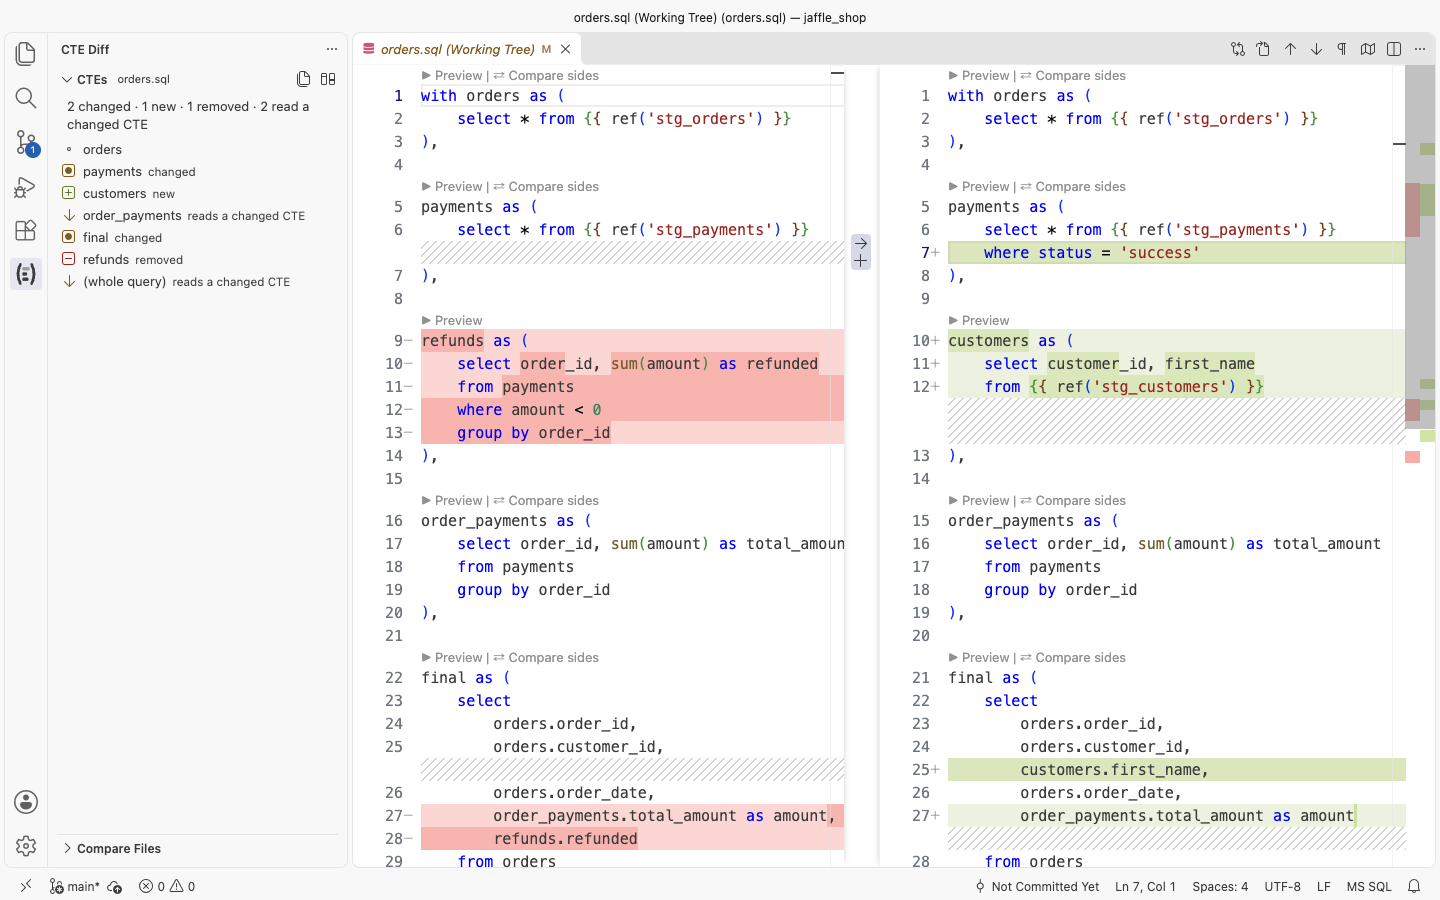
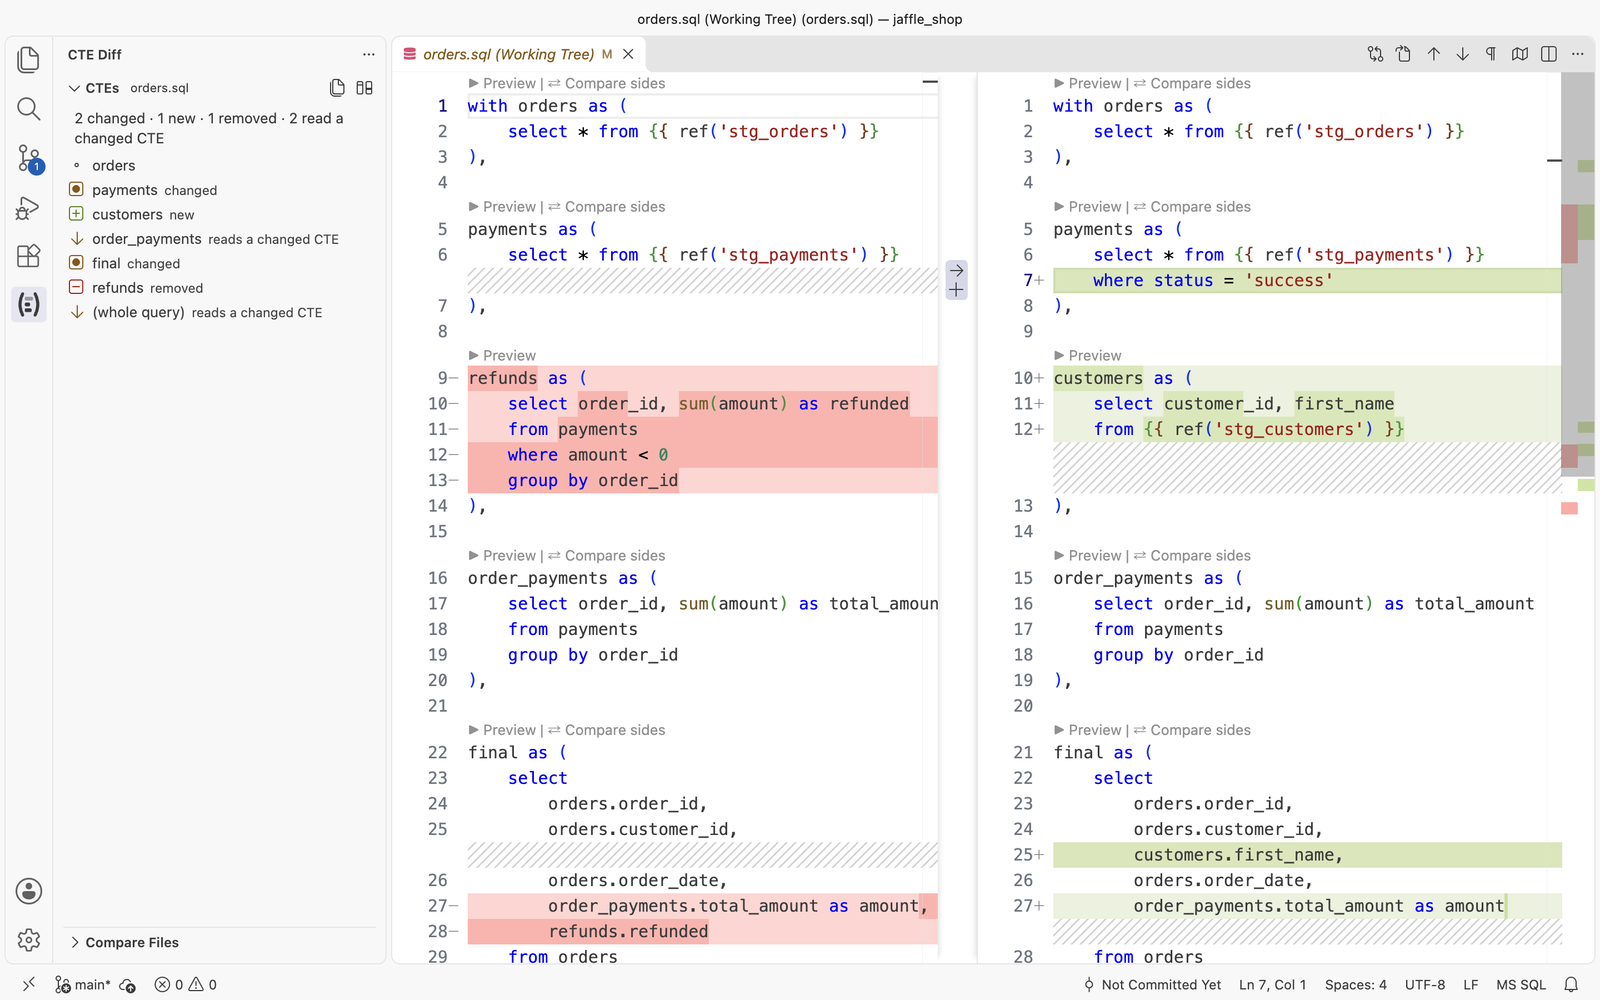
Capture: stills at 2x, cropped from the button clicked to the end of the results

diff --git a/scripts/capture.ts b/scripts/capture.ts
@@ -143,7 +143,10 @@ async function launch(): Promise<{ page: Page; close: () => Promise<void> }> {
   const browser = await chromium.connectOverCDP(url);
   const page = await until(() => browser.contexts().flatMap((c) => c.pages()).find((p) => p.url().includes("workbench")), "the workbench");
   await page.locator(".part.activitybar").waitFor({ timeout: 60000 });
-  await page.setViewportSize(VIEW); // Electron has no Browser.setWindowBounds: emulate the size instead
+  // Electron has no Browser.setWindowBounds: emulate the size instead, at 2x (page.setViewportSize would make it 1x).
+  // The override lasts as long as this session, which stays open until close().
+  const cdp = await page.context().newCDPSession(page);
+  await cdp.send("Emulation.setDeviceMetricsOverride", { ...VIEW, deviceScaleFactor: 2, mobile: false });
   await page.evaluate(INJECT);
   await sleep(3000); // git scans the repo; the extension activates
   return {
@@ -302,7 +305,10 @@ async function still(page: Page, rec: Recorder | undefined, name: string, clip?:
   const cursor = (v: string) => page.evaluate(`document.querySelector(".qv-cursor").style.visibility = "${v}"`);
   await cursor("hidden");
   const raw = path.join(OUT, `${name}.png`);
-  await page.screenshot({ path: raw, clip });
+  const cdp = await page.context().newCDPSession(page); // page.screenshot would capture at 1x
+  const { data } = await cdp.send("Page.captureScreenshot", { format: "png", ...(clip && { clip: { ...clip, scale: 1 } }) });
+  fs.writeFileSync(raw, Buffer.from(data, "base64"));
+  await cdp.detach();
   await cursor("visible");
   if (rec) rec.paused = false;
   fs.mkdirSync(IMG, { recursive: true });
@@ -314,10 +320,30 @@ const activity = (page: Page, name: string) => page.locator(`.part.activitybar a
 const pane = (page: Page, title: string) => page.locator(".pane", { has: page.locator(".pane-header", { hasText: title }) });
 const box = async (el: Locator) => (await el.boundingBox())!;
 
-/** The editor and the panel below it: a run's buttons and its results. */
-async function workArea(page: Page) {
-  const [e, p] = [await box(page.locator(".part.editor")), await box(page.locator(".part.panel"))];
-  return { x: e.x, y: e.y, width: e.width, height: p.y + p.height - e.y };
+/** Across the editor, from `top` (the lens clicked, or the panel) down to the end of the results' table, or to the
+ * last whole row the panel shows. */
+async function results(page: Page, top: Locator, pad = 8) {
+  const [e, p, t] = [await box(page.locator(".part.editor")), await box(page.locator(".part.panel")), await box(top)];
+  // The table is in the results webview, an iframe in an iframe: ask each frame.
+  const [frame, scroll] = await until(async () => {
+    for (const f of page.frames()) {
+      const b = await f.locator(".scroll").first().boundingBox({ timeout: 300 }).catch(() => null);
+      if (b) return [f, b] as const;
+    }
+  }, "the results' table");
+  // The table scrolls inside its frame: past the frame's end, cut below the last whole row.
+  const table = await box(frame.locator("table").first());
+  const visible = Math.min(scroll.y + scroll.height, p.y + p.height);
+  let bottom = table.y + table.height + 14;
+  if (table.y + table.height > visible) {
+    bottom = t.y;
+    for (const row of await frame.locator("tr").all()) {
+      const b = await row.boundingBox();
+      if (b && b.y + b.height <= visible) bottom = Math.max(bottom, b.y + b.height + 1);
+    }
+  }
+  const y = t.y - pad;
+  return { x: e.x, y, width: e.width, height: bottom - y };
 }
 
 /** The activity bar and the sidebar, from the sidebar's top down to `last`. */
@@ -370,21 +396,23 @@ async function flow(page: Page): Promise<void> {
   // Preview payments: its new where clause drops rows.
   await scrollTo(page, hand, "payments as (");
   await sleep(400);
-  await hand.click(await lens(page, "payments as (", "▶ Preview"));
+  const preview = await lens(page, "payments as (", "▶ Preview");
+  await hand.click(preview);
   rec.mark("preview");
   await result(page, "payments (orders.sql)");
   rec.mark("preview-rows");
   await sleep(2500);
-  await still(page, rec, "preview", await workArea(page));
+  await still(page, rec, "preview", await results(page, preview));
   // Compare order_payments: its SQL didn't change, but it reads payments, so its rows did.
   await scrollTo(page, hand, "order_payments as (");
   await sleep(400);
-  await hand.click(await lens(page, "order_payments as (", "⇄ Compare sides"));
+  const compare = await lens(page, "order_payments as (", "⇄ Compare sides");
+  await hand.click(compare);
   rec.mark("compare");
   await result(page, "order_payments");
   rec.mark("compare-rows");
   await sleep(3000);
-  await still(page, rec, "compare", await workArea(page));
+  await still(page, rec, "compare", await results(page, compare));
   // Compare final from the sidebar: a column added, one dropped.
   const final = pane(page, "CTEs").locator(".monaco-list-row", { hasText: /^final/ }).first();
   await hand.over(final.locator(".label-name"));
@@ -395,7 +423,7 @@ async function flow(page: Page): Promise<void> {
   await result(page, "final");
   rec.mark("final-rows");
   await sleep(3000);
-  await still(page, rec, "compare-final", await workArea(page));
+  await still(page, rec, "compare-final", await results(page, page.locator(".part.panel"), 0));
   await rec.stop();
 
   // Compare Files: orders.sql as Old, orders_v2.sql (a rewrite in a new file) as New. File rows come after the slots.
